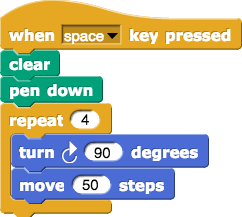
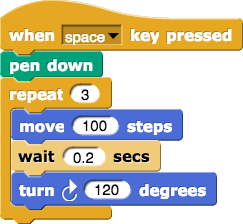
U1L1 Update for EBF

diff --git a/cur/programming/1-introduction/1-introduction/explore-this-code.html b/cur/programming/1-introduction/1-introduction/explore-this-code.html
@@ -6,46 +6,55 @@
     </head>
     <body>
 		<h2>Explore this Code</h2>
-        <div>This is Mary Making a Test Edit from Al's machine.</div>
+        <!--<div class="todo">
+        	<ol>
+            	<li>Your comments can go here...</li>
+            	<li>Your comments can go here...</li>
+            	<li>Your comments can go here...</li>
+            </ol>
+        </div>-->
+        Let's dive right in! We'll discuss the details later...
         <div class="forYouToDo" id="first">
         	<ol>
-            	<img class="imageRight" src="/bjc-r/img/icons/talk-to-a-partner.png" alt="Talk to a Partner" title="Talk to a Partner" />
-				<li>
-                	Guess what the computer might do when it reads this code, and discuss your thinking with your partner and maybe another pair.<br />
-                	<img class="indent" src="/bjc-r/img/1-introduction/sound-sweep-forward.png" alt="test" />
-                </li>
-        		<li>
-                	Read through this skit of two beginning <span class="snap">snap</span> programmers reading that same code:
-                	<div class="dialogue"><!--dialogues shouuld either be 2 or 4 people since kids will be in pairs or talking to another pair, right?-->
-        				<div><span>1:</span> Well, the computer does <em>something</em> when you press the up key.</div>
-        				<div><span>2:</span> Yeah, and then it does that "for <em>n</em> equals 40 to 70" thing... whatever that is...</div>
-        				<div><span>1:</span> And the next block "says" the letter <em>n</em>... out loud?</div>
-                        <div><span>2:</span> Oh, and then it plays the note <em>n</em> for a quarter of  beat! That "point two five beats" is a quarter note!</div>
-                        <div class="stagedir">2 points to the last block in the script.</div>
-                        <!--Charcter 2 knows music-->
-                        <div><span>1:</span> Cool! So, if it's playing notes out loud, then maybe for "say <em>n</em>" it just says <em>n</em> on the screen...</div>
-                        <div><span>2:</span> The program decides what <em>n</em> is in that C-shaped, "for" thing.</div>
-                        <div><span>1:</span> What does it mean "for <em>n</em> equals 40 to 70"?</div>
-                        <!--I deliberately have each charcter reading the 'for' loop out loud. -Mary-->
-                        <div><span>2:</span> Maybe it's like how if I were to plan a vacation "for August 8 to 13." It means all those days...</div>
-                        <div><span>1:</span> So the computer "says" and "plays" all those numbers?</div>
-                    </div>
-                <img class="imageRight" src="/bjc-r/img/icons/pair-programming-swap.png" alt="Pair Programming Swap" title="Pair Programming Swap">
-                <li>Swap roles and read through the skit again.</li>
-                <li>Click below to launch this script in another browser window (or tab). Once it's loaded, press the up key to find out what it does:<br /><a class="run" href="bjc-r/prog/1-introduction/sound-sweep-up.xml"><img class="indent"src="/bjc-r/img/1-introduction/sound-sweep-back.png" /></a></li>
-            	<img class="imageRight" src="/bjc-r/img/icons/talk-to-a-partner.png" alt="Talk to a Partner" title="Talk to a Partner" />
-            	<li><em>Predict</em> the effect of changing the 0.25 in the <code>play note</code> block to 0.5 or even 1. (Don't try it yet, just discuss your ideas with your partner.)</li>
                 <li>
-                	Now, experiment:
-                	<ol>
-                    	<li>In the <span class="snap">snap</span> window, try changing the number in the <code>play note</code> block and pressing space again.</li>
-		                <li>Change the numbers in the <code>for</code> block, and press space again.</li>
+                	Click the image below to launch this script in another  window (or tab).<br />Once it's loaded, press the "space" key see what it does.<br />
+        			<div class="sidenote"><code>Pen down</code> could mean to stop writing, but here, it means put the pen down on the virtual paper (the screen) so you can draw.</div>
+                	<a class="run" href="bjc-r/prog/1-introduction/draw-square.xml"><img class="indent" src="/bjc-r/img/1-introduction/draw-square.png" alt="when space key pressed, clear, pen down, repeat 4 (turn CW 90 degrees, wait 0.2 secs, move 50 steps)" title="when space key pressed, clear, pen down, repeat 4 (turn CW 90 degrees, wait 0.2 secs, move 50 steps)" /></a><br />
+                </li>  
+				<img class="imageRight" src="/bjc-r/img/icons/talk-to-a-partner.png" alt="Talk to a Partner" title="Talk to a Partner" />
+                <li>
+                	What happened? Look at the script line-by-line. Why do you think this happened? Discuss what you saw with your with your partner and maybe another pair.
+                    <ol style="list-style-type:lower-alpha;">
+                        <li>What do you think the <code>repeat 3</code> block does?</li>
+                        <li>What do you think  <code>move 100 steps</code>  does?</li>
+                        <li>What about <code>turn 120 degrees</code>?</li>
                     </ol>
                 </li>
-            	<img class="imageRight" src="/bjc-r/img/icons/talk-to-a-partner.png" alt="Talk to a Partner" title="Talk to a Partner" />
-                <li>Discuss your findings with your partner and maybe another pair of students.</li>
+	 			<div class="sidenote">In this program, you can use the "r" key to reset the stage between experiments. (You can scroll down to the bottom of the project to see the code for this feature.)</div>
+                <li>What would happen if you changed <code>move 100 steps</code> to <code>move 50 steps</code>? (Don't actually change it yet, just guess.)</li>
+                <li>
+                	Now, experiment!<br />
+                    <ol style="list-style-type:lower-alpha;">
+		                <li>Change <code>move 100 steps</code> to <code>move 50 steps</code> and press space again. Did it do what you thought? </li>
+		                <li>Try changing <code>turn clockwise 120 degrees</code> by adding or subtracting 2 and try again. What happens? </li>
+                    	<li>Change the <code>repeat</code> number, and discuss what happens.</li>
+                    </ol>
+                </li>
             </ol>
         </div>
+        <div class="takeItFurther">
+            <ol start="5">
+                <li>Try changing the numbers in this code to build a square.</li>
+                <li>Can you change the numbers in this code to build a pentagon?</li>
+                <li>Can you build a star?</li>
+            </ol>
+        </div>       
+                
+                
+                
+                
+                
+<!--<li>Discuss your findings with your partner and maybe another pair of students.</li>	=-->
 
     </body>
 </html>

diff --git a/cur/programming/1-introduction/1-introduction/cut-content.html b/cur/programming/1-introduction/1-introduction/cut-content.html
@@ -26,6 +26,16 @@
             <div><span>1:</span> So the computer "says" and "plays" all those numbers?</div>
         </div>
                     
+		<div class="dialogue">
+            <div><span>1:</span> So, the computer does something "when you press the space bar."</div>
+            <div><span>1:</span> It "clears" something... like the screen?</div>
+            <div><span>1:</span> Then, it puts the "pen down".</div>
+            <div><span>1:</span> And then it does "repeat 4." So, 4, 4, 4, 4, 4... Or maybe repeats 4 times?</div>
+            <div><span>1:</span> Well, there is stuff inside of that "repeat 4". It says turn 90 degrees and move 50 steps.</div>
+            <div><span>1:</span> Oh, it's a drawing program! It's telling the computer to put the pen down and follow these instructions.</div>
+            <div><span>1:</span> What do think it does?</div>
+         </div>
+
         <h3>Saving</h3>
         <p>That didn't save your work. It just created a space for <em>your</em> work. Now, use the File button <img src="/bjc-r/img/1-introduction/file_button.png" style="height:1.6em;" alt="File button"/> in the tool bar to save your work so far. <em>Give it a name that will help you remember what the project is.</em> </p>
         <p>Any time you want that work back, you will use the same button and select "Open..." to see a list of your files.</p>

diff --git a/css/bjc.css b/css/bjc.css
@@ -29,9 +29,15 @@ li > ul, li > ol {/* Edited by Mary Fries, March 2015 */
   /*display: none;*/
   font-size: .9em;
   margin-bottom: 20px;
-  padding: 5px;
+  padding: 10px;
   border: 10px solid red;
   background-color: #FFF;
+}
+
+.todo:before {
+  font-size: 18px;
+  font-weight: bold;
+  content: "Reviewer Comments:";
 }
 
 /** Side Notes **/
